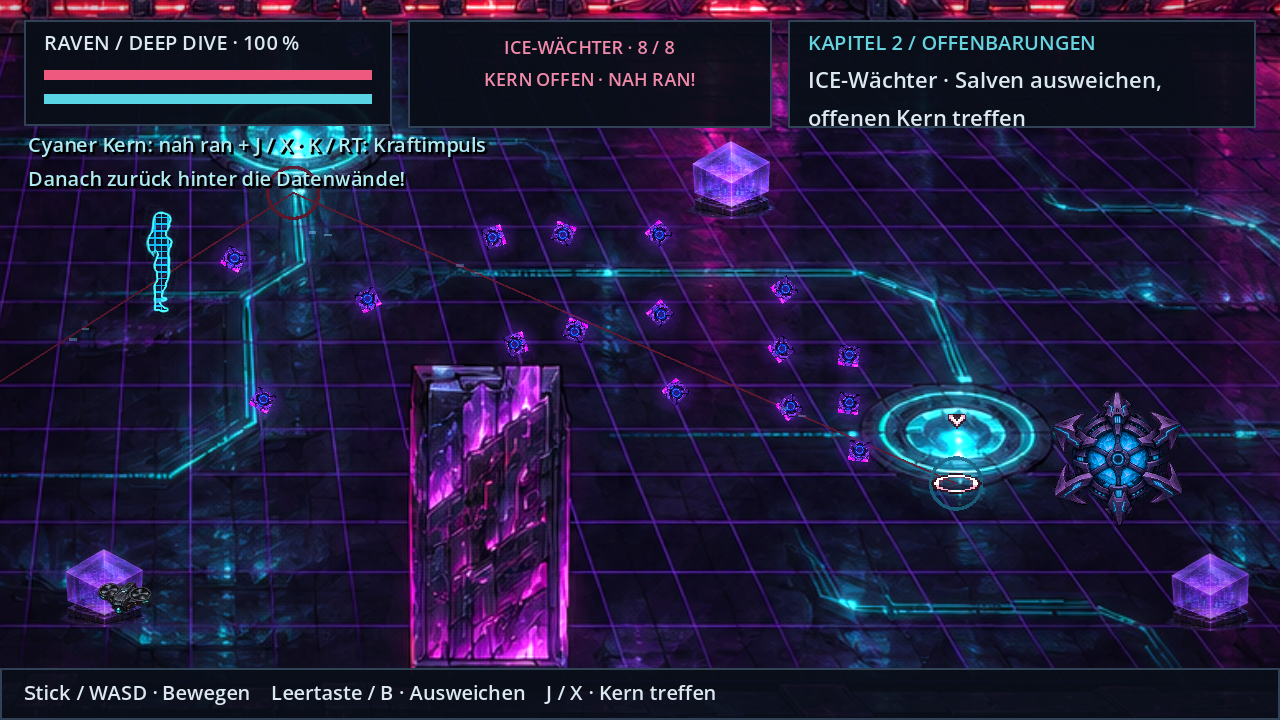
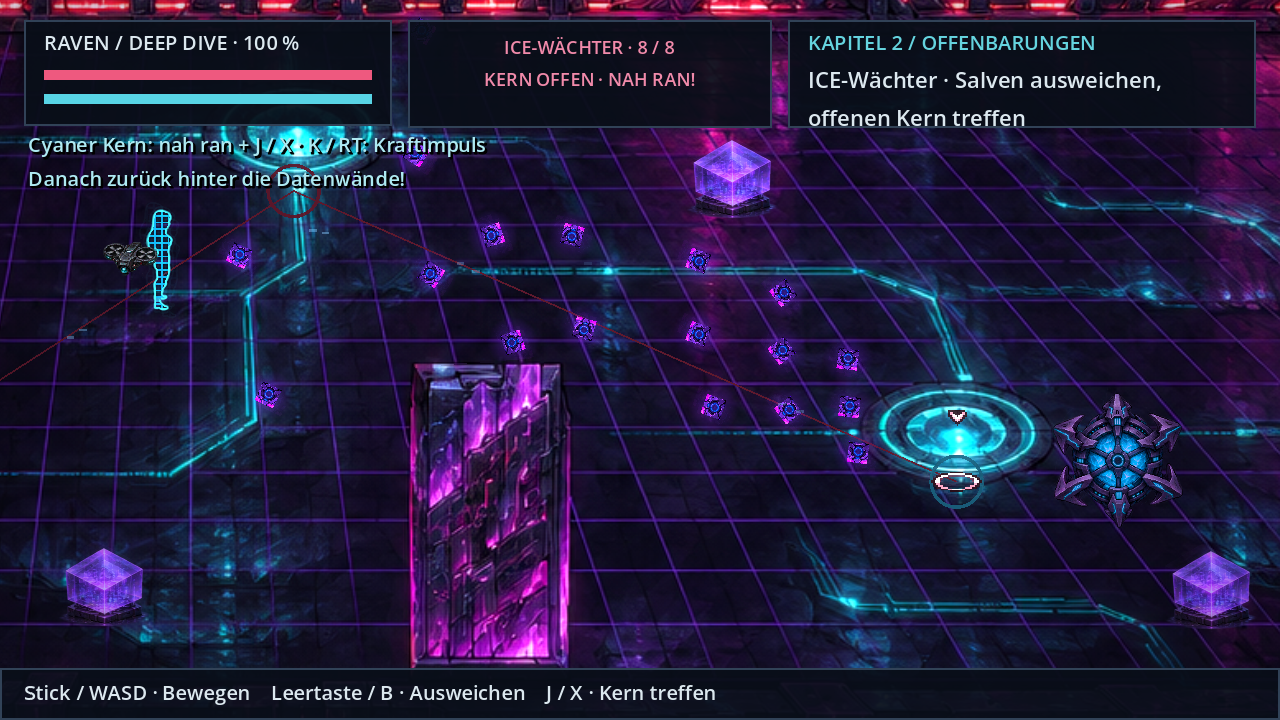
v0.66.0 CodexAI: Drohnenposition beim Raumwechsel und finale Abnahme sichern

diff --git a/docs/fehlerkorrekturen-v066.md b/docs/fehlerkorrekturen-v066.md
@@ -20,7 +20,7 @@ Nach Jackals Tod verlässt Raven die Szene durch ihre Tür. Shadepi geht anschli
 
 Ein Startpunkt der zweiten Welle lag im vergrößerten Kollisionsbereich des zweiten Säulensockels. Er liegt nun frei. Zusätzlich prüft der Raum die Startpunkte und liefert den ICE-Gegnern Wege um die Sockel; sie drücken nicht endlos gegen dieselbe Ecke. Säulen und Verdeckungen bleiben erhalten.
 
-Die Drohne rief bisher direkt `take_damage()` auf. Digitale Gegner besitzen diese Funktion nicht. Begleitertreffer werden jetzt über die Welt an den passenden Gegner weitergereicht: Ein Schuss öffnet die ICE-Hülle, ein weiterer Treffer löscht sie. Der Störimpuls erreicht ebenfalls digitale Gegner. Am Wächter kann die Drohne den offenen Kern aus tatsächlicher Nähe treffen; sie umgeht seine geschlossene Panzerung nicht.
+Die Drohne rief bisher direkt `take_damage()` auf. Digitale Gegner besitzen diese Funktion nicht. Begleitertreffer werden jetzt über die Welt an den passenden Gegner weitergereicht: Ein Schuss öffnet die ICE-Hülle, ein weiterer Treffer löscht sie. Der Störimpuls erreicht ebenfalls digitale Gegner. Bei einem Raumwechsel setzt die Drohne direkt neben Raven wieder an, statt am entfernten Rand ihrer Leine zu landen. Am Wächter kann die Drohne den offenen Kern aus tatsächlicher Nähe treffen; sie umgeht seine geschlossene Panzerung nicht.
 
 ## Beweglicher ICE-Wächter
 
@@ -67,6 +67,6 @@ Spieler 2 steuert Raven im Kenzō-Kampf und beim Rückweg durch Lobby und Flur. 
 
 ## Prüfung und Grenzen
 
-[Maschinenlesbarer Prüfnachweis](pruefungen/v066/ergebnisse.json): **53 headless Prüfreihen, 4.938 erfolgreiche Prüfungen, keine verbleibenden Fehler**, dazu **25 native Prüfungen**. Automatisierte Fehlerfälle prüfen unter anderem alle roten Wellenstartpunkte, die Umgehung der zweiten Säule, echte P2-Drohnenangriffe, kontinuierliche Bossbewegung ohne Begrenzungssprung, Salven/Kernfenster, die beiden Tower-Rollen und den unterbrechbaren Kapitelübergang. Native Pixelprüfungen kontrollieren, dass das Motorrad außerhalb der Toröffnung unsichtbar bleibt, innerhalb sichtbar wird und nach der Schwelle weiter sichtbar ist.
+[Maschinenlesbarer Prüfnachweis](pruefungen/v066/ergebnisse.json): **53 headless Prüfreihen, 4.939 erfolgreiche Prüfungen, keine verbleibenden Fehler**, dazu **26 native Prüfungen**. Automatisierte Fehlerfälle prüfen unter anderem alle roten Wellenstartpunkte, die Umgehung der zweiten Säule, echte P2-Drohnenangriffe, kontinuierliche Bossbewegung ohne Begrenzungssprung, Salven/Kernfenster, die beiden Tower-Rollen und den unterbrechbaren Kapitelübergang. Native Pixelprüfungen kontrollieren, dass das Motorrad außerhalb der Toröffnung unsichtbar bleibt, innerhalb sichtbar wird und nach der Schwelle weiter sichtbar ist.
 
 Alle Abbildungen und Filme sind echte Linux-/X11-Godot-Aufnahmen mit isolierten QA-Spielständen. Die Vorschau bestätigt Dialoge automatisch, rafft Teile der Szenen und schützt die Testfigur in der Bossaufnahme vor dem Tod. Sie ersetzt keinen physischen Android-/Controller-/Windows-Durchlauf. Keine neuen Figuren oder Bildquellen generiert: vorhandene HQ-Pixelquellen und Originalhelden bleiben unverändert. Signaturarbeit bleibt beim Nutzer; Cloud-Veröffentlichung und Release sind nicht Bestandteil dieser Korrektur.

diff --git a/AGENTS.md b/AGENTS.md
@@ -1,6 +1,6 @@
 # Zusammenarbeit an ShadepiRPG
 
-**Fehlerkorrekturen v0.66.0 · CodexAI:** [Szenen, digitale Gegner und Tower-Koop](docs/fehlerkorrekturen-v066.md). Jackal vor dem Kampf an `JACKAL_STANDOFF`, Rücken zu Raven; danach bewusst zu Shadepi drehen. Shadepis Abgang in `SHADOW_EXIT` ist die reale dunkle Gasse, kein Wandsprung. `PassageRoom.safe_point/route_around` halten ICE aus Säulensockeln heraus; Begleiter über `world.companion_hit/companion_interrupt` an virtuelle Empfänger weiterreichen. Wächter echte erweiterte Arenagrenzen, bewegte Warn-/Feuerphase, sieben Salven, stationärer Kern; Kamera beide Kämpfer erfassen. Kapitel 2→3 über `continue_to_pact()` sichtbar an die gemeinsamen Startpunkte laufen. Garagenmotorrad von außerhalb durch die Fassadenmaske fahren, vor Entfernen Prozess stoppen. P2 Raven in BOSS und Escape-Passagen; nur aktive Extraktion bindet Raven und nutzt Naniten. Originalhelden/Kapitel-Enums erhalten.
+**Fehlerkorrekturen v0.66.0 · CodexAI:** [Szenen, digitale Gegner und Tower-Koop](docs/fehlerkorrekturen-v066.md). Jackal vor dem Kampf an `JACKAL_STANDOFF`, Rücken zu Raven; danach bewusst zu Shadepi drehen. Shadepis Abgang in `SHADOW_EXIT` ist die reale dunkle Gasse, kein Wandsprung. `PassageRoom.safe_point/route_around` halten ICE aus Säulensockeln heraus; Begleiter über `world.companion_hit/companion_interrupt` an virtuelle Empfänger weiterreichen. Wächter echte erweiterte Arenagrenzen, bewegte Warn-/Feuerphase, sieben Salven, stationärer Kern; Kamera beide Kämpfer erfassen. Kapitel 2→3 über `continue_to_pact()` sichtbar an die gemeinsamen Startpunkte laufen. Garagenmotorrad von außerhalb durch die Fassadenmaske fahren, vor Entfernen Prozess stoppen. P2 Raven in BOSS und Escape-Passagen; während aktiver Extraktion bleibt Raven gebunden, und P2 steuert die Naniten. Originalhelden/Kapitel-Enums erhalten.
 
 **Nomadenflug v0.65.1 · CodexAI:** [Seitenansicht und Nachtcockpit](docs/nomaden-cockpit-v0651.md). Nur der Wüstenflug wählt am vorhandenen Aerodyne `set_side_view(true)`: eigener Profilatlas `side-flight.png`, keine gedrehte/flache Draufsicht. `aerodyne_side.gd` registriert horizontale Heckstrahlen; ursprünglicher Rumpf bleibt für normale Flug-/Dach-/Seeansichten aktiv. Vor Ravens erster Gesprächszeile Abblende ins `cockpit-night.png`, Außenfahrzeug ausblenden. Pause friert die Cockpitphasen ein, Generation nach jedem await prüfen; Originalhelden und Startcockpit unverändert.
 

diff --git a/KONSISTENZ.md b/KONSISTENZ.md
@@ -14,7 +14,7 @@
 
 **Nomadenflug v0.65.1 · CodexAI:** [Echtes Seitenprofil und anschließendes Nachtcockpit](docs/nomaden-cockpit-v0651.md). Nur der Wüstenflug verwendet `side-flight.png` mit eigenen horizontalen Düsenankern; ursprüngliche Drauf-/Landequellen bleiben aktiv. Vor Gesprächsbeginn ins an den Start angeglichene Nachtcockpit schneiden. Keine Fehlstart-/Schlagposen im ruhigen Gespräch verwenden.
 
-**Szenen/Koop v0.66.0 · CodexAI:** [Aktueller Fehlerbericht und Bildbelege](docs/fehlerkorrekturen-v066.md). Jackals Nähe/Blickrichtung vor dem Duell und Shadepis Abgang in die sichtbare dunkle Gasse erhalten. Kapitel 2→3 bleibt im selben Versteck mit sichtbarem Weg zur Konsole. Garagenfahrt kontinuierlich durch echte Tor-Verdeckung, keine sichtbare Aktivierung an der Schwelle. Beweglicher ICE-Wächter behält die vorhandene Figurenquelle und ein stationäres Nahkampffenster. P2 Raven in Kenzōs Kampf und Rückweg, Naniten nur während der gebundenen Extraktion; Solo kämpft Shadepi allein.
+**Szenen/Koop v0.66.0 · CodexAI:** [Aktueller Fehlerbericht und Bildbelege](docs/fehlerkorrekturen-v066.md). Jackals Nähe/Blickrichtung vor dem Duell und Shadepis Abgang in die sichtbare dunkle Gasse erhalten. Kapitel 2→3 bleibt im selben Versteck mit sichtbarem Weg zur Konsole. Garagenfahrt kontinuierlich durch echte Tor-Verdeckung, keine sichtbare Aktivierung an der Schwelle. Beweglicher ICE-Wächter behält die vorhandene Figurenquelle und ein stationäres Nahkampffenster. P2 Raven in Kenzōs Kampf und Rückweg, Naniten während der gebundenen Extraktion; Solo kämpft Shadepi allein.
 
 ## Bebilderter Einstieg für das gesamte Spiel
 
